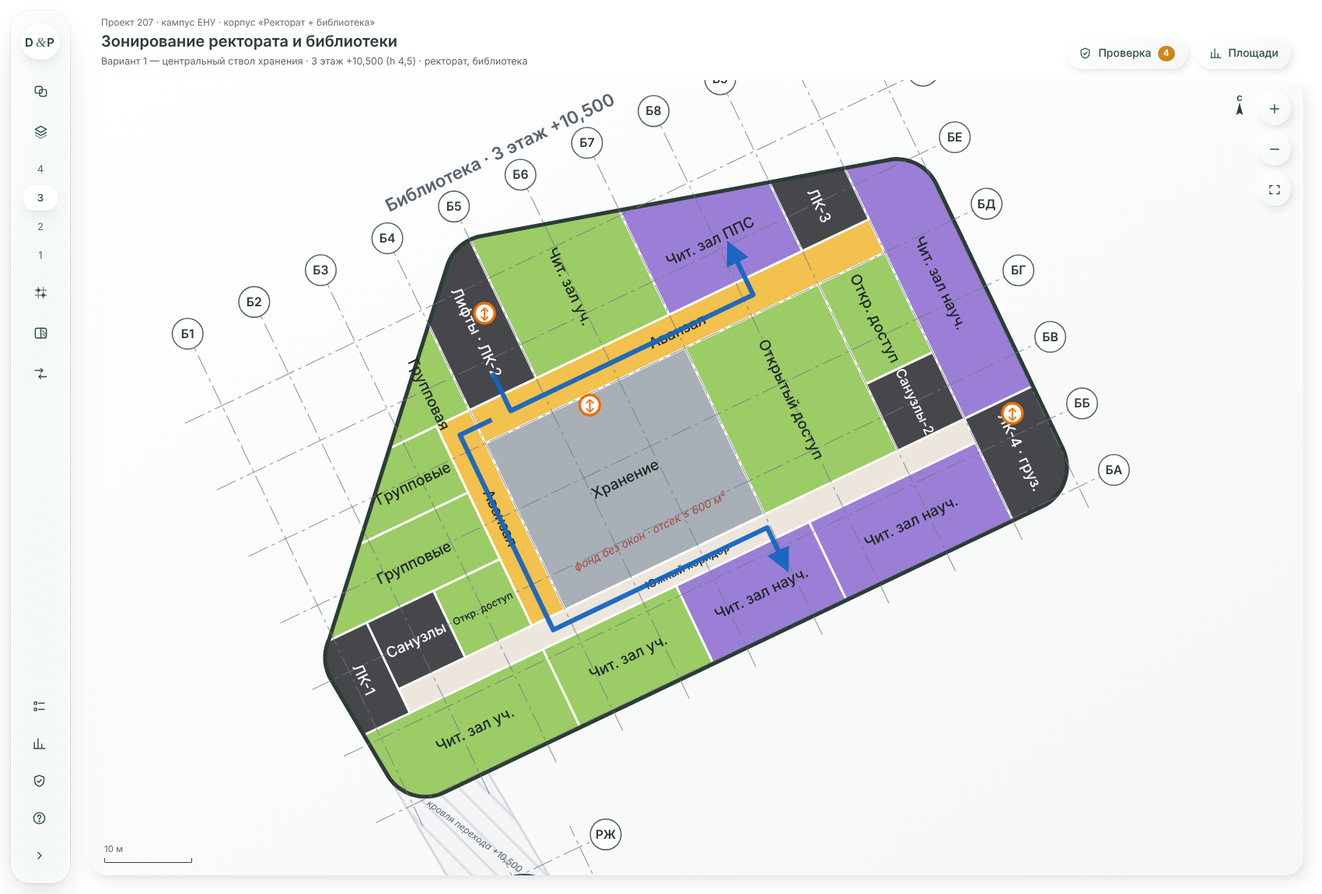
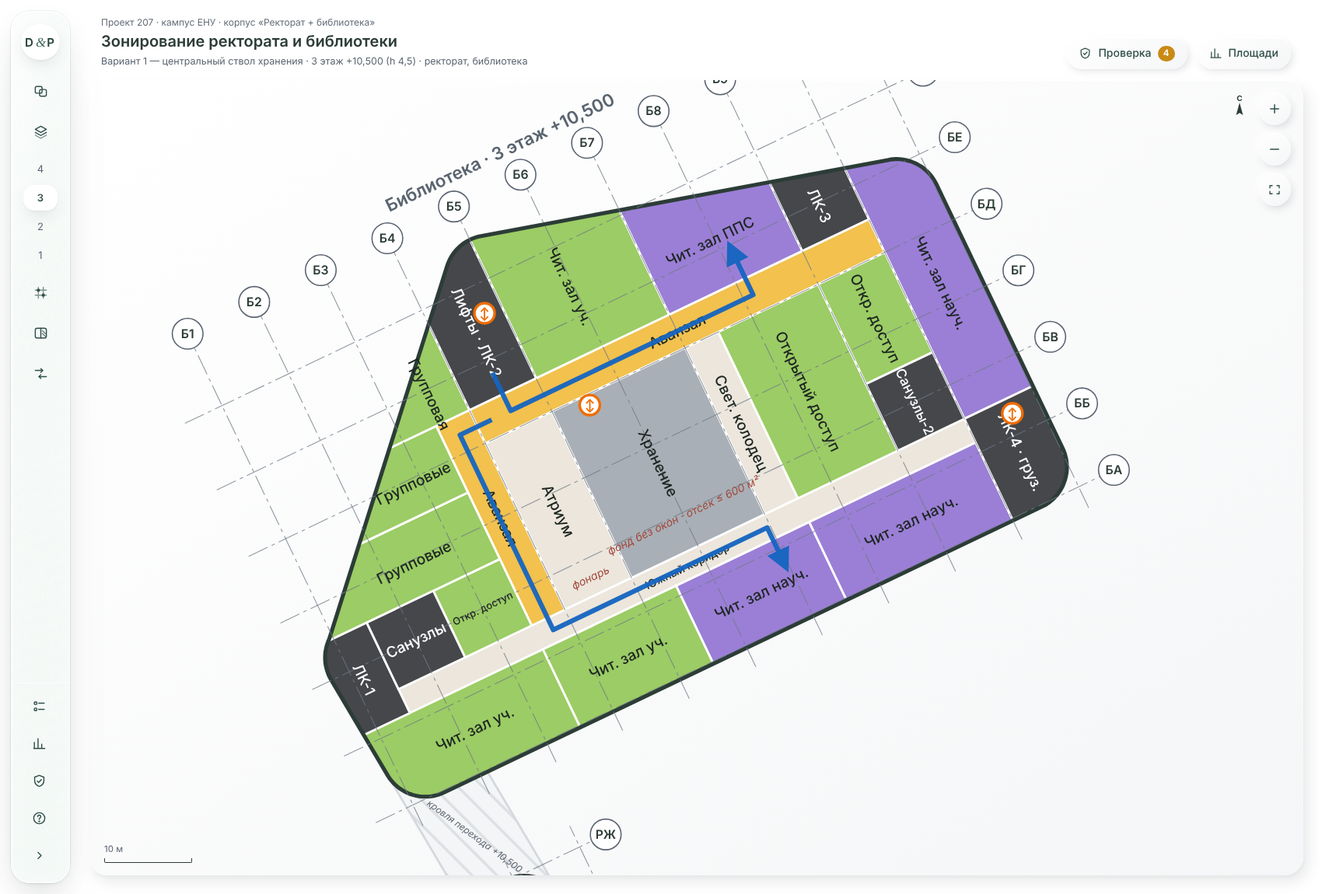
Библиотека: атриум с парадной лестницей и верхним светом, контроль в вестибюле, световые карманы в коридорах
Claude-Session: https://claude.ai/code/session_01PBUMDRyqQNphWJTD6zJTqL

Changed region(s): [[0.3741, 0.3652, 0.6235, 0.6696]]

diff --git a/ADM_LIB_Zoning.html b/ADM_LIB_Zoning.html
@@ -420,11 +420,21 @@ for(const f of LF){
     "Второй блок санузлов: здание ≈ 86 м длиной, от восточных залов до блока у ЛК-1 было бы > 60 м. На 1 этаже — персонал производственной зоны (СН РК 3.02-08)."));
 }
 
+// ───────── АТРИУМ с парадной лестницей — на всех этажах, верхний свет ─────────
+for(const f of LF){
+  COMMON.push(R("LIB",f,25.2,33.6,12.6,33.6,"cor","atrium",f==="1"?"Атриум · лестница":"Атриум","Атриум с парадной лестницей на 4 этажа и верхним светом",
+    "Вместо части хранения-1: фонарь на кровле, открытая лестница видна из вестибюля через стеклянную стену, вход — за контролем (п. 3.108). Вдоль атриума идут оба аванзала и южный коридор — световой карман (п. 4.3.3.1). Открытая лестница не эвакуационная; атриум — с противодымной защитой, от хранилища — противопожарная стена."));
+}
+
 // ───────── 1 ЭТАЖ (h 6,0) — доконтрольная, контроль, производственная зоны ─────────
-L("1",-3,25.2,29.4,56,"z1","vest","Вестибюль","Вестибюль: справочное бюро, запись читателей, книжный киоск, выставки, бюро репрографии",
+L("1",-3,21,29.4,56,"z1","vest","Вестибюль","Вестибюль: справочное бюро, запись читателей, книжный киоск, выставки, бюро репрографии",
   "Главный вход — середина ЗСЗ-фасада (по заданию). Доконтрольная зона: справочное бюро, запись, киоск, выставки, бюро технического обслуживания — п. 3.108.");
-L("1",21,25.2,21,29.4,"z1","vest","Вестибюль","Вестибюль: справочное бюро, запись читателей, книжный киоск, выставки, бюро репрографии",
-  "Часть вестибюля — проход к гардеробу и к холлу абонементов и лекционного зала (п. 3.108).");
+L("1",21,25.2,21,29.4,"z1","vest","","Вестибюль: справочное бюро, запись читателей, книжный киоск, выставки, бюро репрографии",
+  "Часть вестибюля у стеклянной стены атриума: от входа видна парадная лестница; проход к гардеробу и холлу абонементов (п. 3.108).");
+L("1",21,25.2,37.8,56,"z1","vest","","Вестибюль: справочное бюро, запись читателей, книжный киоск, выставки, бюро репрографии",
+  "Часть вестибюля у лифтового узла (лифты открываются только за контролем).");
+L("1",21,25.2,29.4,37.8,"z1","ctrl","Контроль","Пункт контроля — линия турникетов в вестибюле",
+  "Контроль перенесён в вестибюль на ось Б4−4,2: за ним сразу атриум с парадной лестницей и холл к лифтам, каталогам — зона за контролем (п. 3.108).");
 L("1",-3,12.6,21,29.4,"z1","cloak","Гардероб","Гардероб читателей",
   "У входа, до контроля; выше по тексту п. 3.108 — бытовые помещения читателей в доконтрольной части. Не входит в табл. 26.");
 L("1",12.6,21,12.6,21,"z1","cloak","Гардероб","Гардероб читателей",
@@ -439,18 +449,16 @@ L("1",4.2,21,9.6,12.6,"cor","foyer","Фойе","Фойе лекционного 
   "Кулуар перед лекционным залом: связывает доконтрольный холл с залом, санузлами и выходом ЛК-1 (правило 4); на верхних этажах на этой линии — южный коридор.");
 L("1",25.2,58.8,-1,12.6,"z1","abon","Абонементы","Абонементы учебной, научной и художественной литературы",
   "Доконтрольная зона (п. 3.108); выдача на дом прямо из хранилища за стеной — короткий путь книги. Ведётся с холла, эвакуация и наружу через ЮЮВ-фасад.",{p:"abon"});
-L("1",25.2,29.4,33.6,37.8,"z1","ctrl","Контроль","Пункт контроля",
-  "Граница доконтрольной зоны и зоны за контролем (п. 3.108): за ним — каталоги, лифты и лестница в читальные залы.");
-L("1",29.4,75.6,33.6,37.8,"cor","gal","Холл за контролем","Холл за контролем — галерея к каталогам, лифтам и ЛК-3",
+L("1",25.2,75.6,33.6,37.8,"cor","gal","Холл за контролем","Холл за контролем — галерея к каталогам, лифтам и ЛК-3",
   "Ось движения читателей за контролем от пункта контроля до ЛК-3; на верхних этажах на этом месте — аванзалы выдачи.");
 L("1",33.6,58.8,37.8,56,"z1","cat","Каталоги · СБО","Читательские каталоги, картотеки и справочно-библиографический отдел",
   "За контролем, первым по ходу читателя (п. 3.108); северный фасад — ровный свет без солнца для работы с каталогами (п. 3.116).",{p:"cat"});
 L("1",58.8,67.2,37.8,56,"z5","mba","МБА","Межбиблиотечный абонемент",
   "Рядом с каталогами и СБО — заказ изданий из других библиотек; в табл. 26 — 78 м² (6 м² на сотрудника, 1 сотрудник на 140 тыс. ед.).",{p:"serv"});
-L("1",25.2,50.4,12.6,33.6,"z7","store1","Хранение-1","Основное книгохранилище, отсек 1 (стеллажи в два яруса)",
-  "Середина плана без окон (п. 3.110) — фонд защищён от солнца; книгохранилище без естественного света (СН РК п. 5.4.6.5). Отсек 529 м² ≤ 600 м² (п. 4.2.1.69); высота 6 м — двухъярусные стеллажи 4,0–4,2 м (п. 3.111), вместимость ≈ ×2.",{p:"store",nl:true});
-L("1",50.4,54.6,12.6,33.6,"cor","svc","Служ. проход","Служебный проход между отсеками хранения",
-  "Противопожарный разрыв между отсеками ≤ 600 м²: у каждого отсека два выхода (СН РК п. 5.3.1.29), связь хранилища с производственной зоной и холлом за контролем.");
+L("1",33.6,50.4,12.6,33.6,"z7","store1","Хранение-1","Основное книгохранилище, отсек 1 (стеллажи в два яруса)",
+  "Середина плана без окон (п. 3.110) — фонд защищён от солнца; книгохранилище без естественного света (СН РК п. 5.4.6.5). Отсек 353 м² ≤ 600 м² (п. 4.2.1.69), от атриума — противопожарная стена; высота 6 м — двухъярусные стеллажи 4,0–4,2 м (п. 3.111), вместимость ≈ ×2.",{p:"store",nl:true});
+L("1",50.4,54.6,12.6,33.6,"cor","svc","Служ. проход","Служебный проход под световым колодцем, между отсеками хранения",
+  "Дно светового колодца: второй свет для холла за контролем (световой карман, п. 4.3.3.1). Противопожарный разрыв между отсеками ≤ 600 м²: у каждого отсека два выхода (СН РК п. 5.3.1.29), связь хранилища с производственной зоной и холлом за контролем.");
 L("1",54.6,67.2,12.6,33.6,"z7","store2","Хранение-2","Книгохранилище, отсек 2 (основное и компактное хранение)",
   "Второй отсек ствола хранения, рядом с приёмкой и обработкой — поступления идут на полки без пересечения с читателями. Без окон (СН РК п. 5.4.6.5), ≤ 600 м² (п. 4.2.1.69).",{p:"store",nl:true});
 L("1",67.2,75.6,21,33.6,"z7","store2","Хранение-2","Книгохранилище, отсек 2 (основное и компактное хранение)",
@@ -472,9 +480,11 @@ for(const f of ["2","3","4"]){
     "Аванзал выдачи у западной стены хранилища; из него входы в кабинеты групповых занятий (п. 3.106), связь южного коридора с северным аванзалом.",{p:"avan"});
   L(f,25.2,75.6,33.6,37.8,"z1","avan","Аванзал","Аванзал: пункты выдачи из хранилища, выставки новых поступлений",
     "Галерея от лифтов до ЛК-3 вдоль северной стены хранилища: выдача книг через книгоподъёмник, выставки новых поступлений (п. 3.108, 3.113).",{p:"avan"});
-  L(f,25.2,50.4,12.6,33.6,"z7","storeU","Хранение","Основное книгохранилище (отсек этажа)",
-    "Ствол хранения над отсеком 1: середина плана без окон — фонд защищён от солнца (п. 3.110, 3.116); без естественного света — СН РК п. 5.4.6.5. Отсек 529 м² ≤ 600 м² (п. 4.2.1.69), противопожарные двери (п. 5.3.1.30).",{p:"store",nl:true});
-  L(f,50.4,67.2,12.6,33.6,"z6","oa","Открытый доступ","Фонд открытого доступа при читальных залах",
+  L(f,33.6,50.4,12.6,33.6,"z7","storeU","Хранение","Основное книгохранилище (отсек этажа)",
+    "Ствол хранения над отсеком 1: середина плана без окон — фонд защищён от солнца (п. 3.110, 3.116); без естественного света — СН РК п. 5.4.6.5. Отсек 353 м² ≤ 600 м² (п. 4.2.1.69), от атриума и колодца — противопожарные стены, двери противопожарные (п. 5.3.1.30).",{p:"store",nl:true});
+  L(f,50.4,54.6,12.6,33.6,"cor","well","Свет. колодец","Световой колодец (пустота) — второй свет для аванзала и южного коридора",
+    "Световой карман через ≤ 24 м (п. 4.3.3.1): атриум у Б4–Б5 и колодец у Б7 делят аванзал и южный коридор на отрезки ≤ 21 м. Фонарь с рассеивающим остеклением — прямого солнца на фонд нет.");
+  L(f,54.6,67.2,12.6,33.6,"z6","oa","Открытый доступ","Фонд открытого доступа при читальных залах",
     "Стеллажи открытого доступа между хранилищем и залами, с пунктом выдачи (п. 3.113). Стеллажная зона без окон — книги без солнца (СН РК п. 5.4.6.5 — книгохранилища), чтение — в соседних залах у окон.",{p:"store",nl:true});
   L(f,12.6,21,12.6,21,"z6","oa","Откр. доступ","Фонд открытого доступа учебной литературы",
     "Стеллажи открытого доступа у аванзала и групповых (п. 3.113); без окон — СН РК п. 5.4.6.5.",{p:"store",nl:true});
@@ -560,8 +570,9 @@ ENTR.push(["LIB",71.4,-1.3,"Служебный вход","*"]);
 ENTR.push(["LIB",85.3,16.8,"Приёмка книг","*"]);
 ENTR.push(["LIB",-2.7,15,"Выход ЛК-1","*"]);
 ENTR.push(["LIB",2,1.2,"Переход (резерв)","*","2"]);
-FL.push({v:"*",f:"1",t:"stu",p:[["LIB",11,42],["LIB",17,36.5],["LIB",27.3,35.7],["LIB",29.4,40.5]]});
-FL.push({v:"*",f:"1",t:"stu",p:[["LIB",17,36.5],["LIB",23,28],["LIB",23,6],["LIB",33,5.5]]});
+FL.push({v:"*",f:"1",t:"stu",p:[["LIB",11,42],["LIB",17,36.5],["LIB",23,33.6],["LIB",27,35.7],["LIB",29.4,40.5]]});
+FL.push({v:"*",f:"1",t:"stu",p:[["LIB",23,33.6],["LIB",27,31],["LIB",29.4,22]]});
+FL.push({v:"*",f:"1",t:"stu",p:[["LIB",17,36.5],["LIB",19.5,28],["LIB",23,20],["LIB",23,6],["LIB",33,5.5]]});
 FL.push({v:"*",f:"1",t:"stu",p:[["LIB",23,6],["LIB",17,6]]});
 FL.push({v:"*",f:"1",t:"stu",p:[["LIB",31,35.7],["LIB",46,35.7],["LIB",46,42]]});
 FL.push({v:"*",f:"1",t:"staff",p:[["LIB",71.4,-3],["LIB",71.4,6],["LIB",64,6]]});
@@ -574,7 +585,8 @@ for(const f of ["2","3","4"]){
 FL.push({v:"*",f:"2",t:"stu",p:[["LIB",1,1],["LIB",6,6],["LIB",8,11.1],["LIB",21,11.1]]});
 MARKS.push(["LIB",31.5,47],["LIB",37.8,32.4],["LIB",80.8,10.8]);
 NOTES.push({f:"1",c:"LIB",u:12,v:31.5,t:"доконтрольная зона"});
-for(const f of LF)NOTES.push({f,c:"LIB",u:37.8,v:16,t:"фонд без окон · отсек ≤ 600 м²"});
+for(const f of LF)NOTES.push({f,c:"LIB",u:29.4,v:14.2,t:"фонарь"});
+for(const f of LF)NOTES.push({f,c:"LIB",u:42,v:16,t:"фонд без окон · отсек ≤ 600 м²"});
 
 // ════════════ РАЗДЕЛ 4. ДВИЖОК — НЕ МЕНЯТЬ ════════════
 const VAR={V1,V2};

diff --git a/LIB_Zoning_REPORT.md b/LIB_Zoning_REPORT.md
@@ -10,7 +10,7 @@
 
 Центральная схема с асимметрией (п. 3.114):
 
-- **Закрытое книгохранилище стоит стволом в середине плана на всех 4 этажах**, оси Б4–Б7 / ББ+4,2–БД. Окон у него нет, поэтому фонд защищён от солнца. Хранение в середине здания допускает п. 3.110 («серединные объёмы»), хранилища без естественного света — СН РК п. 5.4.6.5. Стеллажи открытого доступа тоже стоят в глубине плана, без окон.
+- **Закрытое книгохранилище стоит стволом в середине плана на всех 4 этажах**, оси Б5–Б7 / ББ+4,2–БД. Окон у него нет, поэтому фонд защищён от солнца. Хранение в середине здания допускает п. 3.110 («серединные объёмы»), хранилища без естественного света — СН РК п. 5.4.6.5. Стеллажи открытого доступа тоже стоят в глубине плана, без окон.
 - **Читательские помещения идут по периметру** на сторонах, которые рекомендует п. 3.116:
   - северный фасад (С);
   - восточный (ВСВ, в пределах ±30° от В/СВ);
@@ -19,11 +19,14 @@
   У всех читальных залов стоит опция `ori` — проверка ориентации пройдена.
 - **На западных фасадах (ЗСЗ, ЗЮЗ)**, которые плохо ориентированы, стоят главный вход и вестибюль, групповые, аудиовизуальные залы и лекционный зал.
 
+- **Атриум с парадной лестницей на 4 этажа** стоит на месте западной части хранения-1, оси Б4–Б5 / ББ+4,2–БД, около 176 м² на этаже. Над ним фонарь на кровле. Вход в атриум — за контролем, а с вестибюля лестница видна через стеклянную стену.
+- **Световые карманы в коридорах** (п. 4.3.3.1, фрагмент от архитектора). Вдоль атриума идут западный аванзал, северный аванзал и южный коридор. Второй карман — узкий световой колодец 4,2 м между хранилищем и открытым доступом (ось Б7, 2–4 этажи). Он делит аванзал и южный коридор на отрезки не длиннее 21 м: норма — карман не реже чем через 24 м, первый не дальше 30 м от освещённого торца. На 1 этаже под колодцем проходит служебный проход, свет из колодца попадает и в холл за контролем. Фонарь колодца с рассеивающим остеклением, прямого солнца на фонд нет.
+
 ## 2. По этажам
 
 | Этаж | Что размещено |
 |---|---|
-| **1** (h 6,0) | **Доконтрольная зона** (п. 3.108): главный вход посередине ЗСЗ-фасада (как на схеме) → вестибюль (справочное бюро, запись, киоск, выставки, репрография) → гардероб, камера хранения портфелей → доконтрольный холл → абонементы учебной, научной и художественной литературы (выдача прямо из хранилища за стеной) и лекционный зал на 150 мест с фойе (п. 3.103). **Пункт контроля** у оси Б4/БД. **За контролем:** холл-галерея, читательские каталоги и СБО на северном фасаде, МБА, главный лифтовой узел и ЛК-2. **Производственная зона** (п. 3.109) в ЮВ углу: отдельный служебный вход с гардеробом персонала, комнатой психологической разгрузки и приёма пищи (п. 3.104, 3.109; СН РК 3.02-08 п. 5.4.4.23, 5.4.4.29), приёмка книг с ВСВ-фасада, комплектование и служебный каталог, обработка. **Хранилище:** 2 отсека (529 и 371 м²), между ними служебный проход. Высота 6 м позволяет ставить стеллажи в два яруса (п. 3.111). |
+| **1** (h 6,0) | **Доконтрольная зона** (п. 3.108): главный вход посередине ЗСЗ-фасада (как на схеме) → вестибюль (справочное бюро, запись, киоск, выставки, репрография) → гардероб, камера хранения портфелей → доконтрольный холл → абонементы учебной, научной и художественной литературы (выдача прямо из хранилища за стеной) и лекционный зал на 150 мест с фойе (п. 3.103). **Пункт контроля** — линия турникетов в самом вестибюле, на оси Б4−4,2. Сразу за ней атриум с парадной лестницей и холл к лифтам. **За контролем:** холл-галерея, читательские каталоги и СБО на северном фасаде, МБА, главный лифтовой узел и ЛК-2. **Производственная зона** (п. 3.109) в ЮВ углу: отдельный служебный вход с гардеробом персонала, комнатой психологической разгрузки и приёма пищи (п. 3.104, 3.109; СН РК 3.02-08 п. 5.4.4.23, 5.4.4.29), приёмка книг с ВСВ-фасада, комплектование и служебный каталог, обработка. **Хранилище:** 2 отсека (353 и 371 м²), между ними служебный проход. Высота 6 м позволяет ставить стеллажи в два яруса (п. 3.111). |
 | **2** | **Учебное отделение**, ближе к входу (п. 3.106): 5 читальных залов (С, ЮЮВ), групповые с входом из аванзала (п. 3.106), открытый доступ. **Лаборатории** репрографии и реставрации, кладовые — над службами 1 этажа, при грузовом лифте ЛК-4 (не выше 3 этажа, п. 3.109). Холл перехода (резерв). |
 | **3** | Учебное и научное отделения: 3 учебных зала, научные залы и зал ППС на одном этаже с учебными (п. 3.106), групповые, открытый доступ. |
 | **4** | Научное отделение: залы по отраслям, индивидуальные кабины (п. 3.112), зал редких книг с отдельным хранилищем редких изданий за противопожарными стенами (СН РК п. 5.3.1.30), аудиовизуальные залы. |
@@ -32,6 +35,7 @@
 - 4 лестничные клетки Н1 в разных концах здания;
 - главный лифтовой узел у северного фасада;
 - 2 блока санузлов (здание длиной ≈ 86 м);
+- атриум с парадной лестницей и световой колодец;
 - северный аванзал с пунктами выдачи и книгоподъёмником из хранилища (↕ на плане), западный аванзал и южный коридор.
 
 Каждый читальный зал рассчитан не больше чем на 100 мест (п. 3.112).
@@ -39,10 +43,11 @@
 ## 3. Пожарные требования и эвакуация (допущения)
 
 - **Этажность.** 4 этажа ≤ 9 (п. 4.2.1.68).
-- **Отсеки хранилища** не больше 600 м² (п. 4.2.1.69): 529 м² на каждом этаже, на 1 этаже — 529 и 371 м². Отсеки отделены противопожарными перегородками, двери противопожарные (СН РК п. 5.3.1.30).
+- **Отсеки хранилища** не больше 600 м² (п. 4.2.1.69): 353 м² на каждом этаже, на 1 этаже — 353 и 371 м². Отсеки отделены противопожарными перегородками, от атриума и колодца — противопожарными стенами, двери противопожарные (СН РК п. 5.3.1.30).
 - **Выходы из отсеков.** У каждого отсека не меньше двух выходов (СН РК п. 5.3.1.29): аванзал, западный аванзал и южный коридор; на 1 этаже — холл за контролем и служебный проход.
 - **Лестничные клетки.** 4 ЛК Н1: ЛК-1 на западе, ЛК-2 на севере в лифтовом узле, ЛК-3 у СВ конца северного фасада, ЛК-4 на ЮВ.
 - **Расстояния до ЛК.** От самой удалённой точки (середина южных залов) до ЛК ≈ 40 м по коридору. **Это допущение:** у меня нет таблиц расстояний СП РК 2.02-101 — проверить по ним.
+- **Атриум.** Открытая парадная лестница в эвакуационный расчёт не входит: эвакуация — по 4 ЛК Н1. Для атриума через 4 этажа нужны противодымная вентиляция и отделение от этажей или дымовые завесы. Это отдельный пожарный расчёт — допущение.
 - **Лекционный зал** (150 мест): выходы в фойе и наружу через ЮЮВ-фасад.
 
 ## 4. Сверка с табл. 26 (М = 1 800)
@@ -56,20 +61,22 @@
 | Групповые | 571 | 502 | 792 | −290 |
 | Читальные залы научного отд. | 2 011 | 1 770 | 2 700 | −930 |
 | Аудиовизуальные, редкие книги | 652 | 574 | 900 | −326 |
-| Книгохранилище (вкл. открытый доступ) | 3 863 | 3 400 | 5 002 | −1 602 ² |
+| Книгохранилище (вкл. открытый доступ) | 2 893 | 2 546 | 5 002 | −2 456 ² |
 | Обработка и служебные | 1 162 | 1 022 | 1 259 | −237 |
-| **Итого табл. 26** | **11 540** | **≈ 10 155** | **14 012** | **≈ −3 860** |
+| **Итого табл. 26** | **10 570** | **≈ 9 300** | **14 012** | **≈ −4 710** |
 
 ¹ Аванзалы служат ещё и распределительными галереями: по ним идёт эвакуация, через них — входы в групповые и залы. Поэтому они больше нормы.
-² На 1 этаже стеллажи стоят в два яруса (п. 3.111). Если считать второй ярус, полезная площадь хранения ≈ 4 190 м² и дефицит ≈ −810. Калькулятор HTML считает только площадь пола.
+² На 1 этаже стеллажи стоят в два яруса (п. 3.111). Если считать второй ярус, полезная площадь хранения ≈ 3 180 м² и дефицит ≈ −1 820. Калькулятор HTML считает только площадь пола.
 
-Вне табл. 26 размещено: лекционный зал 214, вестибюль и гардероб 356, контроль 18, ядра 2 020, коридоры и холлы 1 196 м². Всего ровно 4 × 3 836,1 = 15 344 м².
+Вне табл. 26 размещено: лекционный зал 214, вестибюль и гардероб 321, контроль 35, ядра 2 028, атриум 704, световой колодец и проход под ним 352, коридоры и холлы 1 124 м².
+
+Атриум и колодец забрали у хранилища ≈ 970 м² брутто: это цена парадной лестницы и света в коридорах. Всего ровно 4 × 3 836,1 = 15 344 м².
 
 **Чем это оборачивается для мест:** в читальных залах ≈ 1 150 мест вместо 1 620 по нормам на залы, плюс групповые на ≈ 230 мест. Все площади — черновик брутто; ТЭП считает отдельный специалист.
 
 ## 5. Что не поместилось и что предлагаю
 
-**Табл. 26 вместе с коридорами, ядрами, вестибюлем и лекционным залом не помещается в 4 × 3 836 м²**: не хватает ≈ 3 900 м² полезной площади. Варианты (решает архитектор):
+**Табл. 26 вместе с коридорами, ядрами, вестибюлем и лекционным залом не помещается в 4 × 3 836 м²**: не хватает ≈ 4 700 м² полезной площади. Варианты (решает архитектор):
 
 1. **Подвал под стволом хранилища** (сейчас подвал не решён). П. 3.110 прямо рекомендует цокольные и подземные этажи для основного хранилища, лабораторий, МБА и обменного фонда. Подвал ≈ 1 500–2 000 м² закроет хранение и освободит наземные этажи под залы.
 2. **Компактные (передвижные) стеллажи** для основного хранения: 1,25 м² на 1 000 ед. вместо 2,5. Это экономит ≈ 1 300 м².
